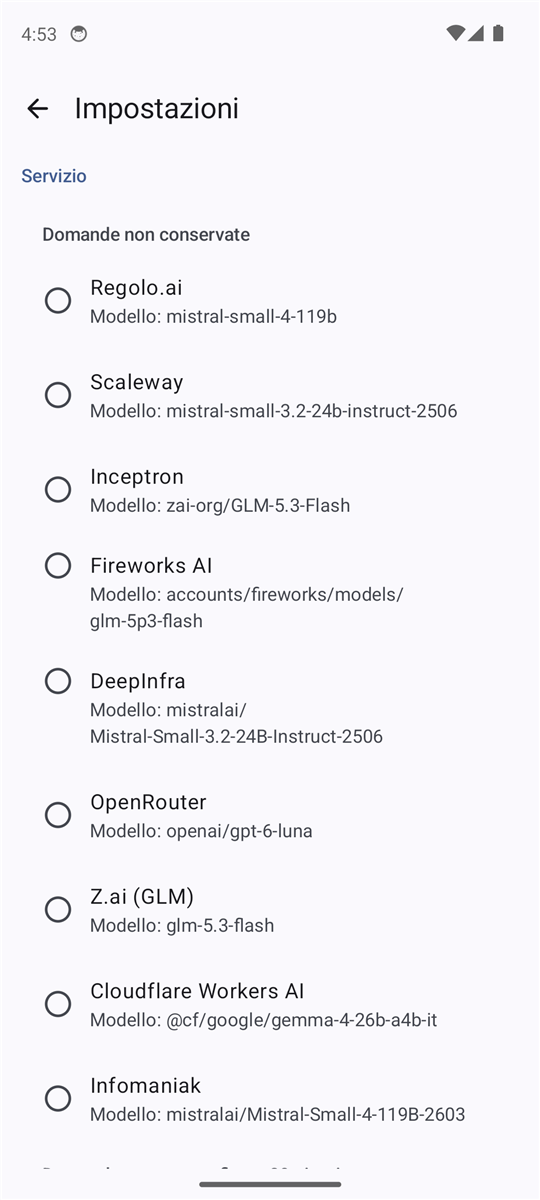
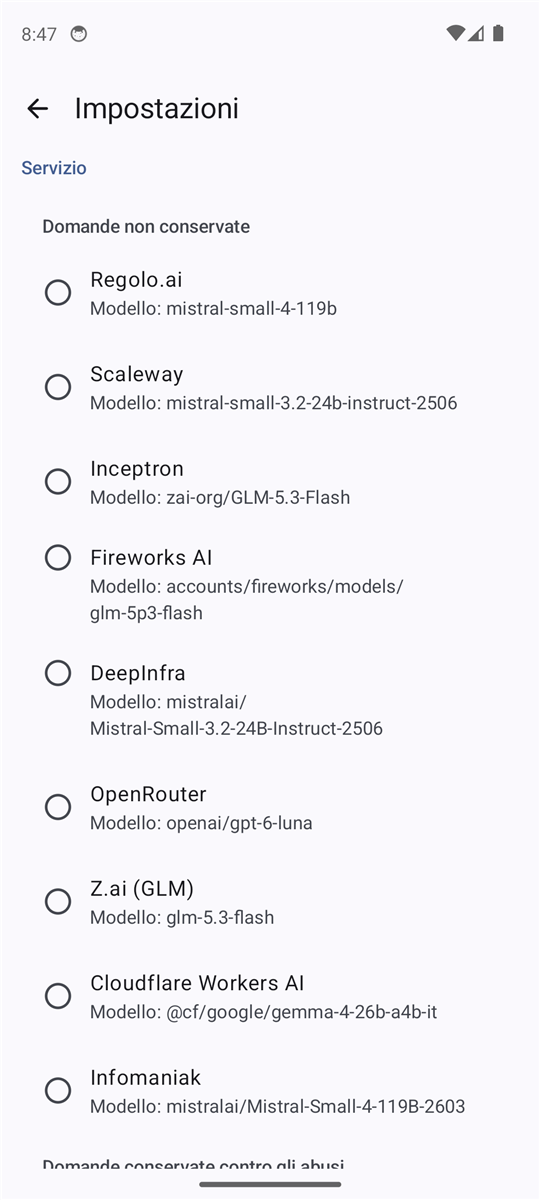
fix(ai): conservazione delle domande per servizio, OpenRouter e DeepInfra
Gemini conserva le domande 55 giorni per i controlli contro gli abusi, non
30: il gruppo diventa «Domande conservate contro gli abusi» e la frase sotto
il servizio dice i giorni di ognuno (OnlineTerms.retentionDays, Gemini 55,
gli altri 30). Con provider.zdr un account OpenRouter self-serve ammette per
default anche i fornitori che conservano le domande contro gli abusi: una
riga spiega come escluderli con «ZDR only», con il collegamento alle
impostazioni sulla privacy di OpenRouter. DeepInfra passa ad Anthropic e
Google le domande per i loro modelli: con quei modelli la frase lo dice e
«Impegni sulla privacy» apre la pagina di Claude o di Gemini
(OnlineProvider.upstreamFor, Gemma esclusa). Collegamenti nuovi per Gemini
(termini spostati su aistudio.google.com) e Alibaba (pagina della
conservazione). Screenshot docs/images/ai.png rifatto.

diff --git a/feature/ai/src/main/kotlin/com/pockettravel/feature/ai/OnlineProvider.kt b/feature/ai/src/main/kotlin/com/pockettravel/feature/ai/OnlineProvider.kt
@@ -22,7 +22,7 @@ enum class OnlineProvider(
         "https://platform.openai.com/api-keys",
         "sk-",
         "https://platform.openai.com/docs/models",
-        OnlineTerms(OnlinePrivacy.KEPT_30_DAYS, "https://developers.openai.com/api/docs/guides/your-data"),
+        OnlineTerms(OnlinePrivacy.KEPT_FOR_ABUSE_CHECKS, "https://developers.openai.com/api/docs/guides/your-data"),
     ),
     MISTRAL(
         "Mistral AI",
@@ -38,7 +38,7 @@ enum class OnlineProvider(
         "https://aistudio.google.com/apikey",
         "AIza",
         "https://ai.google.dev/gemini-api/docs/models",
-        OnlineTerms(OnlinePrivacy.KEPT_30_DAYS, "https://ai.google.dev/gemini-api/terms"),
+        OnlineTerms(OnlinePrivacy.KEPT_FOR_ABUSE_CHECKS, "https://aistudio.google.com/docs/terms", retentionDays = 55),
     ),
     CLAUDE(
         "Claude (Anthropic)",
@@ -46,7 +46,7 @@ enum class OnlineProvider(
         "https://console.anthropic.com/settings/keys",
         "sk-ant-",
         "https://docs.anthropic.com/en/docs/about-claude/models",
-        OnlineTerms(OnlinePrivacy.KEPT_30_DAYS, "https://privacy.claude.com/en/articles/7996866", api = OnlineApi.ANTHROPIC_MESSAGES),
+        OnlineTerms(OnlinePrivacy.KEPT_FOR_ABUSE_CHECKS, "https://privacy.claude.com/en/articles/7996866", api = OnlineApi.ANTHROPIC_MESSAGES),
     ),
     REGOLO(
         "Regolo.ai",
@@ -94,7 +94,7 @@ enum class OnlineProvider(
         "https://console.groq.com/keys",
         "gsk_",
         "https://console.groq.com/docs/models",
-        OnlineTerms(OnlinePrivacy.KEPT_30_DAYS, "https://console.groq.com/docs/your-data"),
+        OnlineTerms(OnlinePrivacy.KEPT_FOR_ABUSE_CHECKS, "https://console.groq.com/docs/your-data"),
     ),
     OPENROUTER(
         "OpenRouter",
@@ -118,7 +118,7 @@ enum class OnlineProvider(
         "https://modelstudio.console.alibabacloud.com/eu-central-1?tab=dashboard#/api-key",
         "sk-",
         "https://www.alibabacloud.com/help/en/model-studio/models",
-        OnlineTerms(OnlinePrivacy.KEPT_30_DAYS, "https://www.alibabacloud.com/help/en/model-studio/privacy-notice", idField = OnlineIdField.WORKSPACE_ID),
+        OnlineTerms(OnlinePrivacy.KEPT_FOR_ABUSE_CHECKS, "https://www.alibabacloud.com/help/en/model-studio/data-retention-policy", idField = OnlineIdField.WORKSPACE_ID),
     ),
     CLOUDFLARE(
         "Cloudflare Workers AI",
@@ -153,6 +153,17 @@ enum class OnlineProvider(
         id != null && isValidAccountId(id) -> baseUrl.replace("{id}", id.trim())
         else -> null
     }
+
+    /**
+     * Il servizio a cui DeepInfra passa le domande per [model]: per i modelli di Anthropic e Google (non Gemma, che
+     * DeepInfra esegue da sé) valgono conservazione e addestramento di quei servizi, non i suoi. Null negli altri casi.
+     */
+    fun upstreamFor(model: String?): OnlineProvider? = when {
+        this != DEEPINFRA || model == null -> null
+        model.startsWith("anthropic/") -> CLAUDE
+        model.startsWith("google/") && !model.startsWith("google/gemma") -> GEMINI
+        else -> null
+    }
 }
 
 internal fun isValidAccountId(id: String): Boolean = ACCOUNT_ID.matches(id.trim())
@@ -163,7 +174,10 @@ private val ACCOUNT_ID = Regex("[A-Za-z0-9-]{1,64}")
  * Condizioni di un servizio. [privacy]: cosa fa delle domande, per il gruppo nella scelta del servizio; [privacyUrl]:
  * la sua pagina con gli impegni sulla privacy. [idField]: il dato dell'account che va nell'indirizzo, null se non
  * serve. [zeroDataRetention]: OpenRouter manda la domanda solo ai fornitori che non la conservano
- * (`provider.zdr` in ogni richiesta). [hasModelList]: false se il servizio non ha `GET /models` (Cloudflare).
+ * (`provider.zdr` in ogni richiesta); con le impostazioni normali di un account self-serve ammette anche quelli che la
+ * conservano solo contro gli abusi ("Safety Retention"), esclusi solo con «ZDR only» nell'account. [hasModelList]:
+ * false se il servizio non ha `GET /models` (Cloudflare). [retentionDays]: per quanti giorni il servizio conserva le
+ * domande, solo per [OnlinePrivacy.KEPT_FOR_ABUSE_CHECKS].
  */
 data class OnlineTerms(
     val privacy: OnlinePrivacy,
@@ -172,13 +186,15 @@ data class OnlineTerms(
     val idField: OnlineIdField? = null,
     val zeroDataRetention: Boolean = false,
     val hasModelList: Boolean = true,
+    val retentionDays: Int = 30,
 )
 
 /**
  * Cosa fa il servizio delle domande con le impostazioni normali, secondo le sue condizioni: non le conserva, le
- * conserva fino a 30 giorni per i controlli contro gli abusi, o nel piano gratuito le usa per addestrare i modelli.
+ * conserva per qualche settimana per i controlli contro gli abusi ([OnlineTerms.retentionDays]), o nel piano gratuito
+ * le usa per addestrare i modelli.
  */
-enum class OnlinePrivacy { NOT_KEPT, KEPT_30_DAYS, FREE_PLAN_TRAINING }
+enum class OnlinePrivacy { NOT_KEPT, KEPT_FOR_ABUSE_CHECKS, FREE_PLAN_TRAINING }
 
 /** Dato dell'account che il servizio vuole nell'indirizzo, oltre alla chiave. */
 enum class OnlineIdField { ACCOUNT_ID, PRODUCT_ID, WORKSPACE_ID }

diff --git a/feature/ai/src/main/kotlin/com/pockettravel/feature/ai/AiAssistantScreen.kt b/feature/ai/src/main/kotlin/com/pockettravel/feature/ai/AiAssistantScreen.kt
@@ -1355,7 +1355,7 @@ private fun ApiKeySetup(uiState: AiUiState, actions: AiActions) {
                 }
             }
         }
-        ProviderPrivacy(provider)
+        ProviderPrivacy(provider, uiState.onlineModels[provider])
         OnlineModelChoice(
             provider = provider,
             options = uiState.onlineModelOptions,
@@ -1421,18 +1421,29 @@ private fun ApiKeySetup(uiState: AiUiState, actions: AiActions) {
 }
 
 // Cosa fa delle domande il servizio scelto, con il collegamento ai suoi impegni sulla privacy; per Gemini anche
-// l'avviso sul piano a pagamento nell'UE (condizioni di Gemini per le app usate nello Spazio economico europeo).
+// l'avviso sul piano a pagamento nell'UE (condizioni di Gemini per le app usate nello Spazio economico europeo), per
+// OpenRouter come escludere i fornitori che conservano le domande. Con un modello di Anthropic o Google su DeepInfra
+// valgono le regole di quei servizi ([OnlineProvider.upstreamFor]), e il collegamento porta alle loro.
 @Composable
-private fun ProviderPrivacy(provider: OnlineProvider) {
+private fun ProviderPrivacy(provider: OnlineProvider, model: String?) {
     val uriHandler = LocalUriHandler.current
-    val text = when (provider.terms.privacy) {
-        OnlinePrivacy.NOT_KEPT -> R.string.ai_privacy_not_kept
-        OnlinePrivacy.KEPT_30_DAYS -> R.string.ai_privacy_kept_30_days
-        OnlinePrivacy.FREE_PLAN_TRAINING -> R.string.ai_privacy_free_plan_training
+    val upstream = provider.upstreamFor(model)
+    val text = when {
+        upstream != null -> stringResource(R.string.ai_privacy_upstream, if (upstream == OnlineProvider.CLAUDE) "Anthropic" else "Google")
+        else -> when (provider.terms.privacy) {
+            OnlinePrivacy.NOT_KEPT -> stringResource(R.string.ai_privacy_not_kept, provider.displayName)
+            OnlinePrivacy.KEPT_FOR_ABUSE_CHECKS -> pluralStringResource(
+                R.plurals.ai_privacy_kept,
+                provider.terms.retentionDays,
+                provider.displayName,
+                provider.terms.retentionDays,
+            )
+            OnlinePrivacy.FREE_PLAN_TRAINING -> stringResource(R.string.ai_privacy_free_plan_training, provider.displayName)
+        }
     }
     Column(verticalArrangement = Arrangement.spacedBy(Spacing.xs)) {
         Text(
-            stringResource(text, provider.displayName),
+            text,
             style = MaterialTheme.typography.bodyMedium,
             color = if (provider.terms.privacy == OnlinePrivacy.FREE_PLAN_TRAINING) {
                 MaterialTheme.colorScheme.error
@@ -1447,7 +1458,19 @@ private fun ProviderPrivacy(provider: OnlineProvider) {
                 color = MaterialTheme.colorScheme.onSurfaceVariant,
             )
         }
-        TextButton(onClick = { uriHandler.openUri(provider.terms.privacyUrl) }) {
+        if (provider == OnlineProvider.OPENROUTER) {
+            Text(
+                stringResource(R.string.ai_privacy_openrouter_zdr_only),
+                style = MaterialTheme.typography.bodyMedium,
+                color = MaterialTheme.colorScheme.onSurfaceVariant,
+            )
+            TextButton(onClick = { uriHandler.openUri(OPENROUTER_PRIVACY_SETTINGS_URL) }) {
+                Text(stringResource(R.string.ai_privacy_openrouter_settings))
+                Spacer(modifier = Modifier.width(Spacing.s))
+                Icon(AppIcons.OpenExternal, contentDescription = null, modifier = Modifier.size(18.dp))
+            }
+        }
+        TextButton(onClick = { uriHandler.openUri((upstream ?: provider).terms.privacyUrl) }) {
             Text(stringResource(R.string.ai_privacy_commitments))
             Spacer(modifier = Modifier.width(Spacing.s))
             Icon(AppIcons.OpenExternal, contentDescription = null, modifier = Modifier.size(18.dp))
@@ -1455,9 +1478,11 @@ private fun ProviderPrivacy(provider: OnlineProvider) {
     }
 }
 
+private const val OPENROUTER_PRIVACY_SETTINGS_URL = "https://openrouter.ai/settings/privacy"
+
 private fun privacyGroupTitle(privacy: OnlinePrivacy): Int = when (privacy) {
     OnlinePrivacy.NOT_KEPT -> R.string.ai_privacy_group_not_kept
-    OnlinePrivacy.KEPT_30_DAYS -> R.string.ai_privacy_group_kept_30_days
+    OnlinePrivacy.KEPT_FOR_ABUSE_CHECKS -> R.string.ai_privacy_group_kept
     OnlinePrivacy.FREE_PLAN_TRAINING -> R.string.ai_privacy_group_free_plan_training
 }
 

diff --git a/feature/ai/src/test/kotlin/com/pockettravel/feature/ai/OnlineProviderTest.kt b/feature/ai/src/test/kotlin/com/pockettravel/feature/ai/OnlineProviderTest.kt
@@ -57,6 +57,31 @@ class OnlineProviderTest {
     }
 
     @Test
+    fun `services that keep questions say for how many days, Gemini 55`() {
+        val kept = OnlineProvider.entries.filter { it.terms.privacy == OnlinePrivacy.KEPT_FOR_ABUSE_CHECKS }
+        assertEquals(
+            mapOf(
+                OnlineProvider.CHATGPT to 30,
+                OnlineProvider.GEMINI to 55,
+                OnlineProvider.CLAUDE to 30,
+                OnlineProvider.GROQ to 30,
+                OnlineProvider.ALIBABA to 30,
+            ),
+            kept.associateWith { it.terms.retentionDays },
+        )
+    }
+
+    @Test
+    fun `DeepInfra passes Claude and Gemini models to Anthropic and Google, open models stay with it`() {
+        assertEquals(OnlineProvider.CLAUDE, OnlineProvider.DEEPINFRA.upstreamFor("anthropic/claude-sonnet-5"))
+        assertEquals(OnlineProvider.GEMINI, OnlineProvider.DEEPINFRA.upstreamFor("google/gemini-3.5-flash"))
+        assertNull(OnlineProvider.DEEPINFRA.upstreamFor("google/gemma-4-31B-it"))
+        assertNull(OnlineProvider.DEEPINFRA.upstreamFor("zai-org/GLM-5.3"))
+        assertNull(OnlineProvider.DEEPINFRA.upstreamFor(null))
+        assertNull(OnlineProvider.OPENROUTER.upstreamFor("anthropic/claude-sonnet-5"))
+    }
+
+    @Test
     fun `OpenRouter asks for zero data retention, the other services send no routing`() {
         val server = MockWebServer()
         server.start()

diff --git a/README.md b/README.md
@@ -117,7 +117,7 @@ I modelli proposti per ogni servizio, con il costo stimato di 100 domande, vengo
 | [Cloudflare Workers AI](https://dash.cloudflare.com/?to=/:account/ai/workers-ai) | `@cf/google/gemma-4-26b-a4b-it` | `@cf/qwen/qwen3.8-27b` |
 | [Infomaniak](https://manager.infomaniak.com/v3/ng/products/cloud/ai-tools) | `mistralai/Mistral-Small-4-119B-2603` | `Qwen/Qwen3.5-397B-A17B-FP8` |
 
-Nell'app i servizi sono divisi in base a cosa fanno delle domande: **Domande non conservate**, **Domande conservate fino a 30 giorni** (per i controlli contro gli abusi) e **Addestramento nel piano gratuito** (Mistral AI). **Impegni sulla privacy** apre la pagina del servizio scelto. OpenRouter passa la domanda solo ai fornitori che non la conservano. Cloudflare, Infomaniak e Alibaba Cloud chiedono anche l'ID dell'account, del prodotto o del workspace.
+Nell'app i servizi sono divisi in base a cosa fanno delle domande: **Domande non conservate**, **Domande conservate contro gli abusi** (fino a 55 giorni per Gemini, 30 per gli altri) e **Addestramento nel piano gratuito** (Mistral AI). **Impegni sulla privacy** apre la pagina del servizio scelto. OpenRouter passa la domanda solo ai fornitori che non la conservano; con le impostazioni normali dell'account ammette anche quelli che la conservano contro gli abusi, esclusi scegliendo «ZDR only» nelle impostazioni sulla privacy di OpenRouter. Con i modelli di Anthropic e Google, DeepInfra passa la domanda a quei servizi, e valgono le loro regole. Cloudflare, Infomaniak e Alibaba Cloud chiedono anche l'ID dell'account, del prodotto o del workspace.
 
 Per Gemini c'è anche `gemini-3.5-flash-lite` (**Più leggero**). Quando finisce la quota giornaliera di un modello (il piano gratuito di Gemini ne concede 20 al giorno per modello), **Automatico** passa la domanda a un altro modello del servizio e lo scrive sopra la risposta. Con un modello scelto, il messaggio della quota ha i pulsanti per rifare la domanda con un altro modello o con il modello sul dispositivo. `/model` nel campo della domanda elenca i modelli e ne sceglie uno (`/model automatico`, `/model dispositivo` o il nome); scrivendo `/` un menu sopra il campo propone il comando e poi i modelli. Con **Altro modello** l'app propone anche gli altri modelli di chat del servizio che l'account può usare, con il costo stimato: l'elenco si aggiorna ogni settimana dai prezzi di [LiteLLM](https://github.com/BerriAI/litellm) e [models.dev](https://models.dev).
 

diff --git a/CHANGELOG.md b/CHANGELOG.md
@@ -7,7 +7,7 @@ Oltre alle categorie di Keep a Changelog, la sezione "Cambiamenti incompatibili"
 ## [Non rilasciato]
 
 ### Aggiunto
-- Assistente IA, motore Online: undici servizi nuovi, oltre a ChatGPT, Mistral, Gemini e Claude: Regolo, Scaleway, Inceptron, Fireworks, DeepInfra, Groq, OpenRouter (solo con i fornitori che non conservano le domande), Z.ai, Alibaba Cloud, Cloudflare e Infomaniak. L'elenco dei servizi è diviso in «Domande non conservate», «Domande conservate fino a 30 giorni» e «Addestramento nel piano gratuito»; sotto il servizio scelto, una frase dice cosa fa delle domande e «Impegni sulla privacy» apre la sua pagina. Mistral ha la frase in rosso; per Gemini, una riga dice che nell'Unione europea serve una chiave del piano a pagamento. Cloudflare, Infomaniak e Alibaba Cloud chiedono anche l'ID dell'account, del prodotto o del workspace, salvato con la chiave.
+- Assistente IA, motore Online: undici servizi nuovi, oltre a ChatGPT, Mistral, Gemini e Claude: Regolo, Scaleway, Inceptron, Fireworks, DeepInfra, Groq, OpenRouter (solo con i fornitori che non conservano le domande), Z.ai, Alibaba Cloud, Cloudflare e Infomaniak. L'elenco dei servizi è diviso in «Domande non conservate», «Domande conservate contro gli abusi» e «Addestramento nel piano gratuito»; sotto il servizio scelto, una frase dice cosa fa delle domande, con i giorni di conservazione (55 per Gemini, 30 per gli altri), e «Impegni sulla privacy» apre la sua pagina. Mistral ha la frase in rosso; per Gemini, una riga dice che nell'Unione europea serve una chiave del piano a pagamento. Per OpenRouter, una riga dice che con le impostazioni normali dell'account le domande possono andare anche a fornitori che le conservano contro gli abusi, e «Impostazioni sulla privacy di OpenRouter» apre la pagina in cui si sceglie «ZDR only». Con un modello di Anthropic o di Google su DeepInfra, la frase dice che valgono le regole di quel servizio e «Impegni sulla privacy» apre la sua pagina. Cloudflare, Infomaniak e Alibaba Cloud chiedono anche l'ID dell'account, del prodotto o del workspace, salvato con la chiave.
 - Allerte in corso: nelle regioni Isole Canarie, Ceuta e Melilla compaiono le allerte meteo MeteoAlarm delle loro aree, a terra e sulla costa, dal feed della Spagna; nella regione Svalbard e Jan Mayen quelle delle sue isole, dal feed della Norvegia.
 
 ### Modificato

diff --git a/docs/STYLE.md b/docs/STYLE.md
@@ -126,7 +126,7 @@ risposte finché i modelli non vengono riaddestrati. Restano come sono, salvo er
 | Bolla della conversazione scritta dall'app, non dal modello (quota, cambio di modello, /model) | messaggio dell'app | app message |
 | Menu sopra il campo della domanda che compare scrivendo "/" | menu dei comandi | command menu |
 | Modelli di chat di un servizio fuori dai proposti, che l'account può usare | altri modelli del servizio | other models of the service |
-| Gruppi dei servizi del motore Online, per uso delle domande | Domande non conservate; Domande conservate fino a 30 giorni; Addestramento nel piano gratuito | Questions not kept; Questions kept up to 30 days; Training on the free plan |
+| Gruppi dei servizi del motore Online, per uso delle domande | Domande non conservate; Domande conservate contro gli abusi; Addestramento nel piano gratuito | Questions not kept; Questions kept for abuse checks; Training on the free plan |
 | Pagina del servizio su conservazione e uso delle domande | Impegni sulla privacy | Privacy commitments |
 | Codice dell'account che alcuni servizi vogliono nell'indirizzo (Cloudflare, Infomaniak, Alibaba) | ID dell'account; ID del prodotto; ID del workspace (il nome usato dal servizio) | Account ID; Product ID; Workspace ID |
 | Dati EXIF della foto (data, luogo, modello del telefono), tolti prima dell'invio | dati della foto (mai "EXIF" nell'interfaccia) | photo details |
